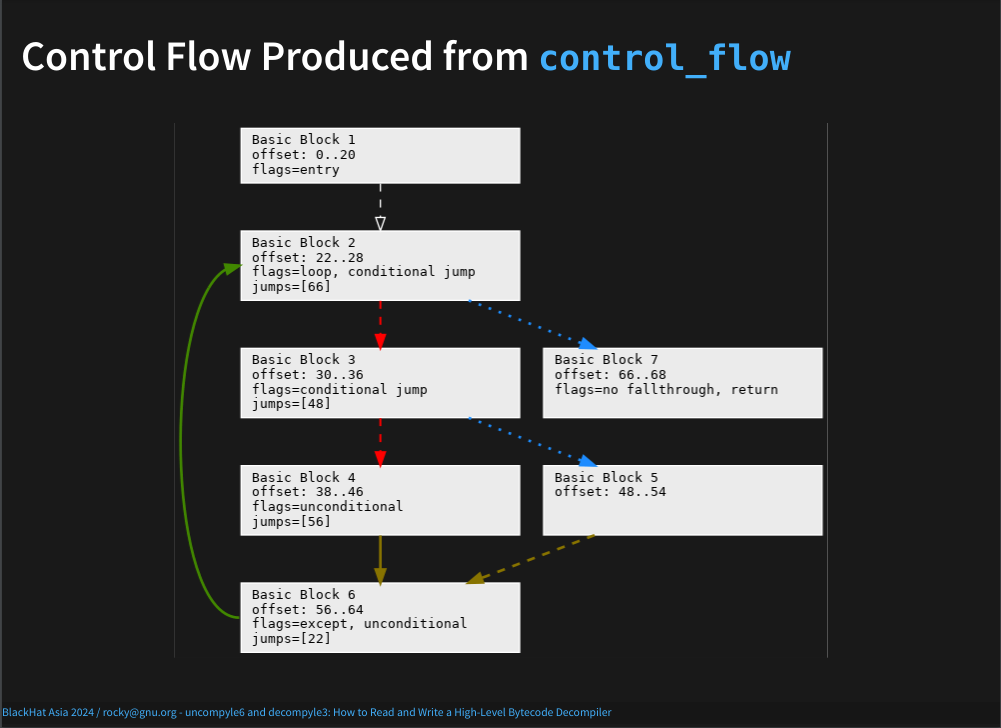
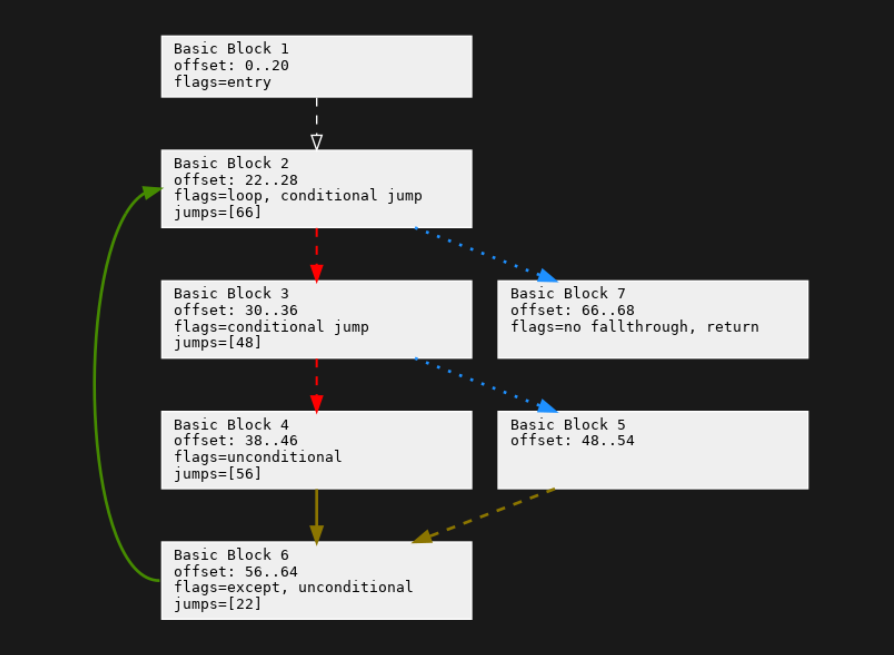
Tighten slide images

diff --git a/all-notes-print.html b/all-notes-print.html
@@ -101,7 +101,7 @@
      <li><a href="wrap-up">Wrapping Up</li>
      <ol>
        <li><a href="#comparison-with-other-work">Comparison with other work</a></li>
-       <li><a href="#talk-summary">Talk Summary</a></li>
+       <li><a href="#takeaways-redux">Takeaways</a></li>
        <li><a href="#thanks">Thanks</a></li>
        <li><a href="#refs">Additional Information</a></li>
      </ol>
@@ -1532,7 +1532,8 @@
    <hr/>
 
    <!--- 150-control-flow.html #/15/3 -->
-   <img id="dominators" alt="slide-15-3" src="slide-images/slide-15-3.png"/>
+   <h2 id="dominstors">Dominator Regions and Dominators</h2>
+   <img alt="slide-15-3" src="slide-images/slide-15-3.png"/>
    <p>
      Here, we have the control-flow graph from before, but now
      altered to show dominators regions and dominators. This graph
@@ -1668,7 +1669,7 @@
    <hr/>
 
    <!--- 170-wrap-up.html #/17 -->
-   <h2 id="talk-summary">Talk Summary</h2>
+   <h2 id="takeaways-redux">Takeaways</h2>
    <img alt="slide-17" src="slide-images/slide-17.png"/>
    <p>
      I have shown how two of the best and most-popular Python
